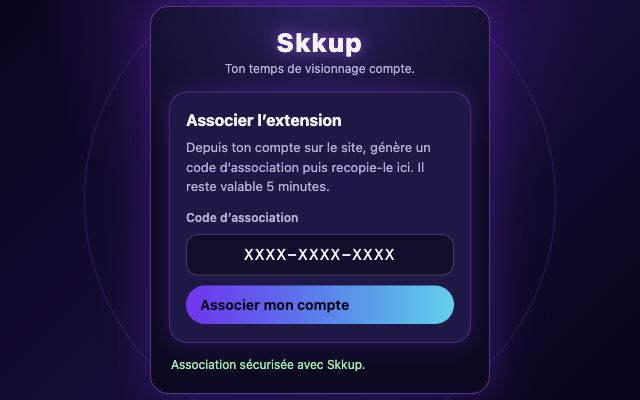
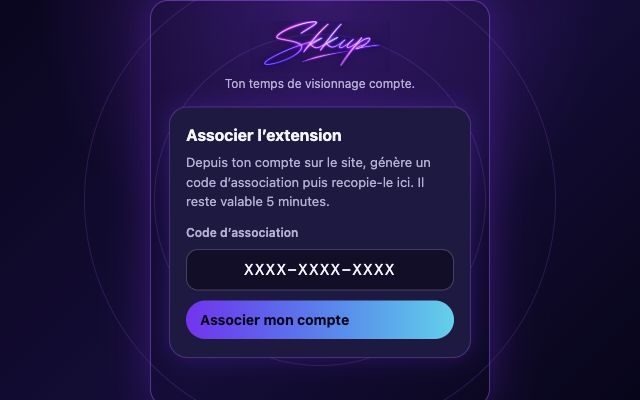
fix(extension): use the Skkup wordmark in popup

diff --git a/extension/src/popup/popup.html b/extension/src/popup/popup.html
@@ -9,7 +9,7 @@
   <body>
     <main class="fenetre">
       <header class="entete">
-        <p class="marque">Skkup</p>
+        <img class="logo" src="assets/skkup-wordmark-transparent.png" alt="Skkup" />
         <p class="accroche">Ton temps de visionnage compte.</p>
       </header>
 

diff --git a/extension/src/popup/popup.css b/extension/src/popup/popup.css
@@ -54,6 +54,13 @@ body {
   letter-spacing: 0.02em;
 }
 
+.logo {
+  display: block;
+  width: 140px;
+  height: auto;
+  margin: 0 auto;
+}
+
 .marque-accent {
   background: linear-gradient(90deg, var(--violet) 0%, var(--cyan) 100%);
   -webkit-background-clip: text;

diff --git a/extension/README.md b/extension/README.md
@@ -95,8 +95,9 @@ Les captures de la popup sont conservées dans `store-assets/` :
   limitée ;
 - `skuup-extension-suivi.jpg` : état associé et suivi prêt à détecter un direct.
 
-Elles sont exportées en 640 × 400 px depuis l'interface réelle de la popup,
-sans compte, chaîne ou statistique inventés.
+Elles sont exportées en 640 × 400 px depuis un aperçu fidèle de la popup. Le
+pseudo « Compte de démonstration » signale explicitement l'état de présentation
+et ne correspond à aucun compte réel.
 
 ## Fonctionnement
 
